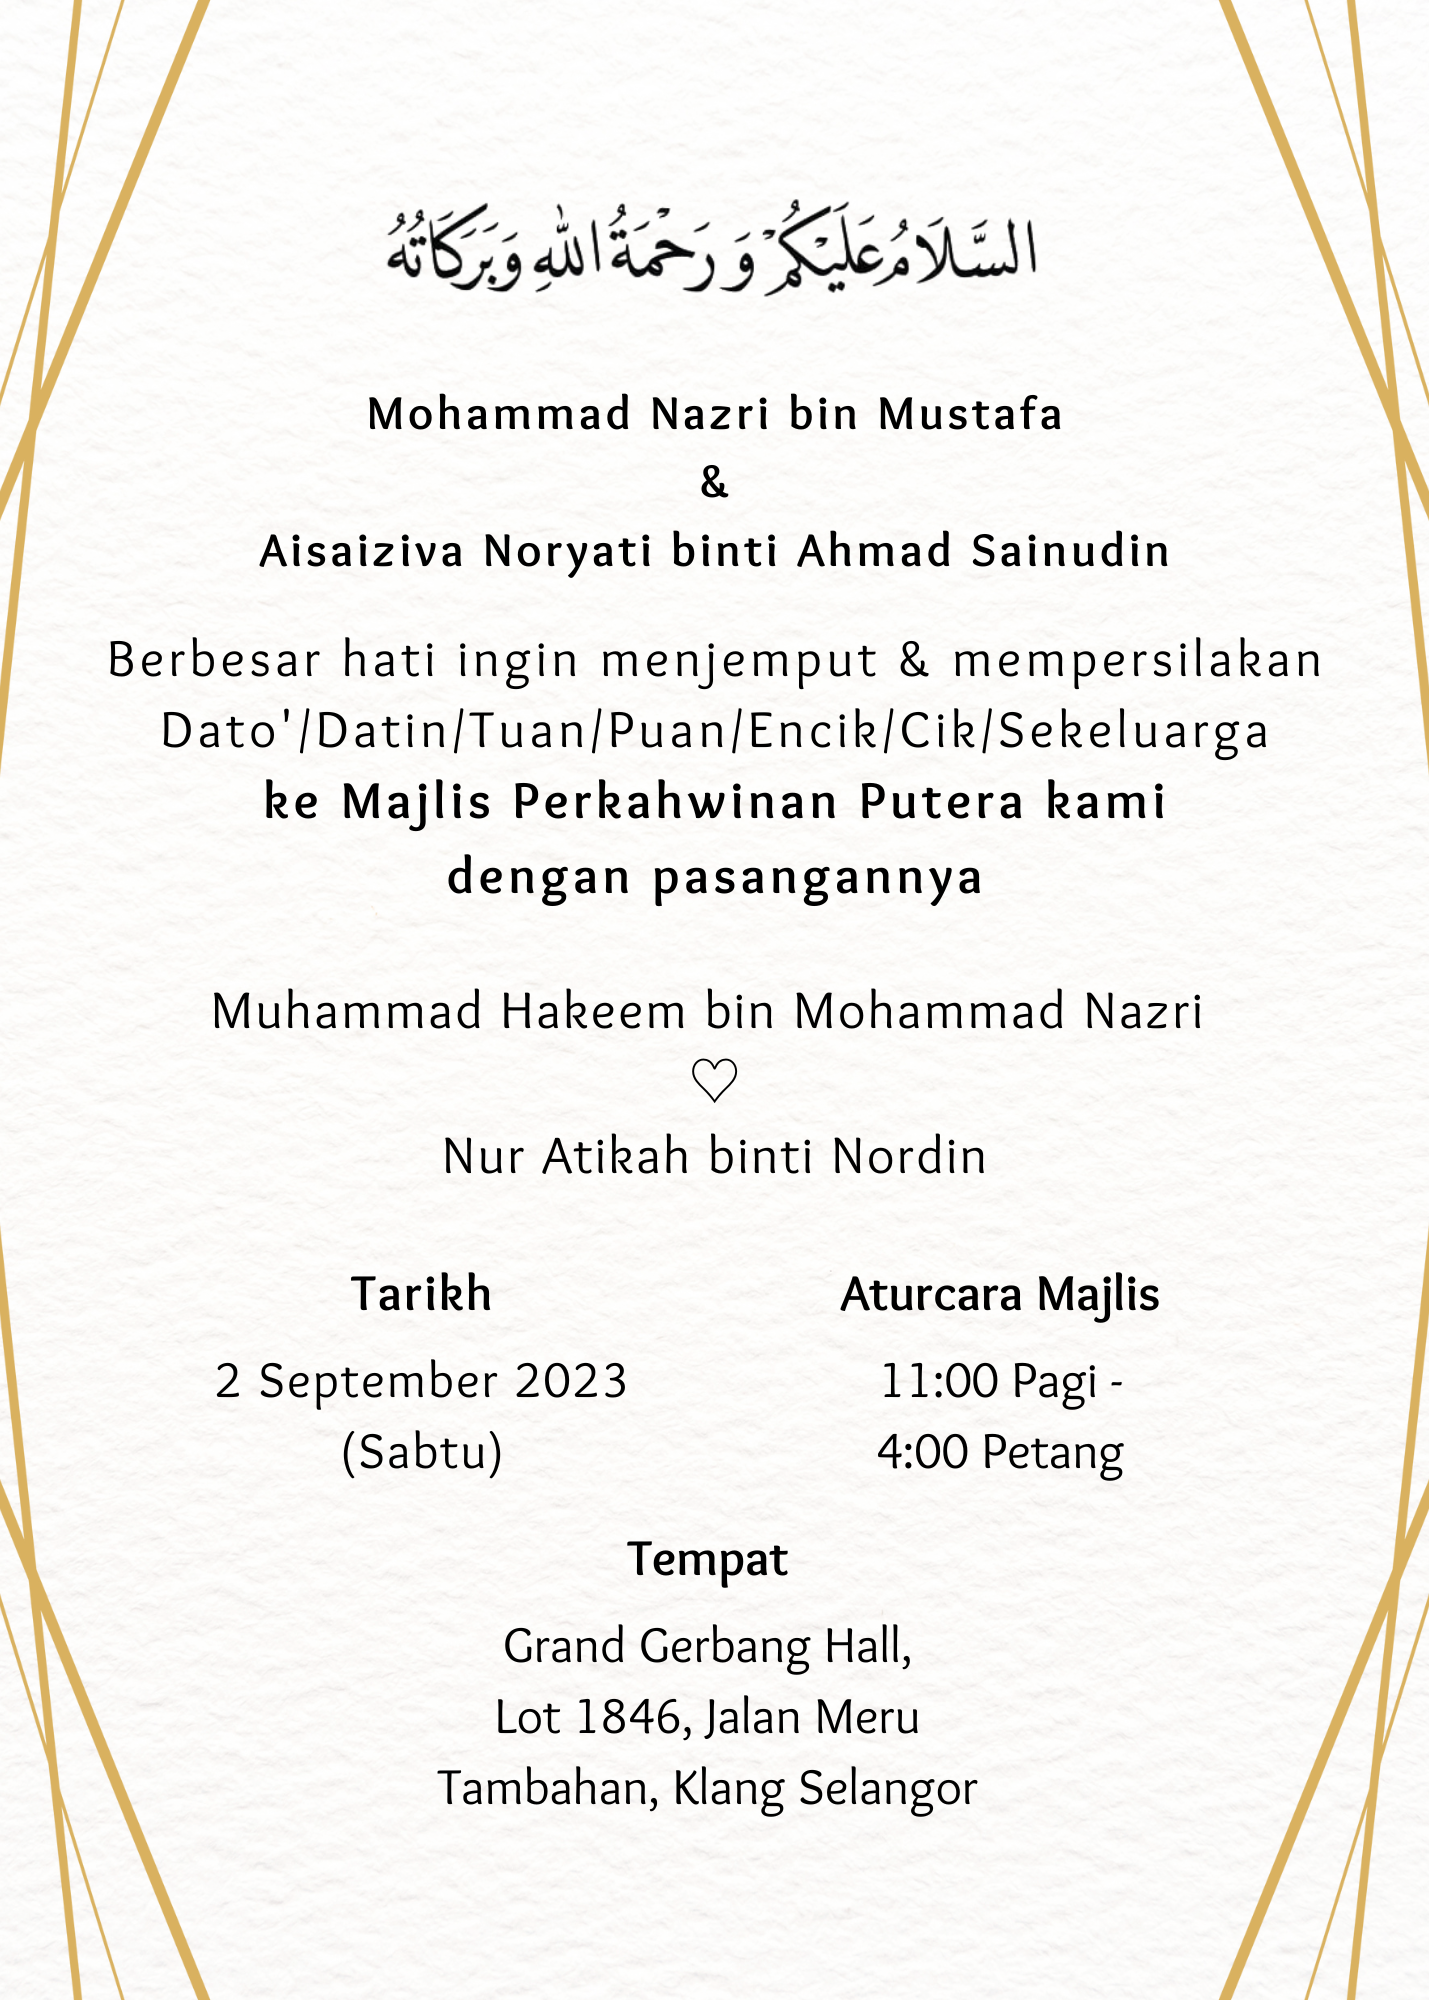
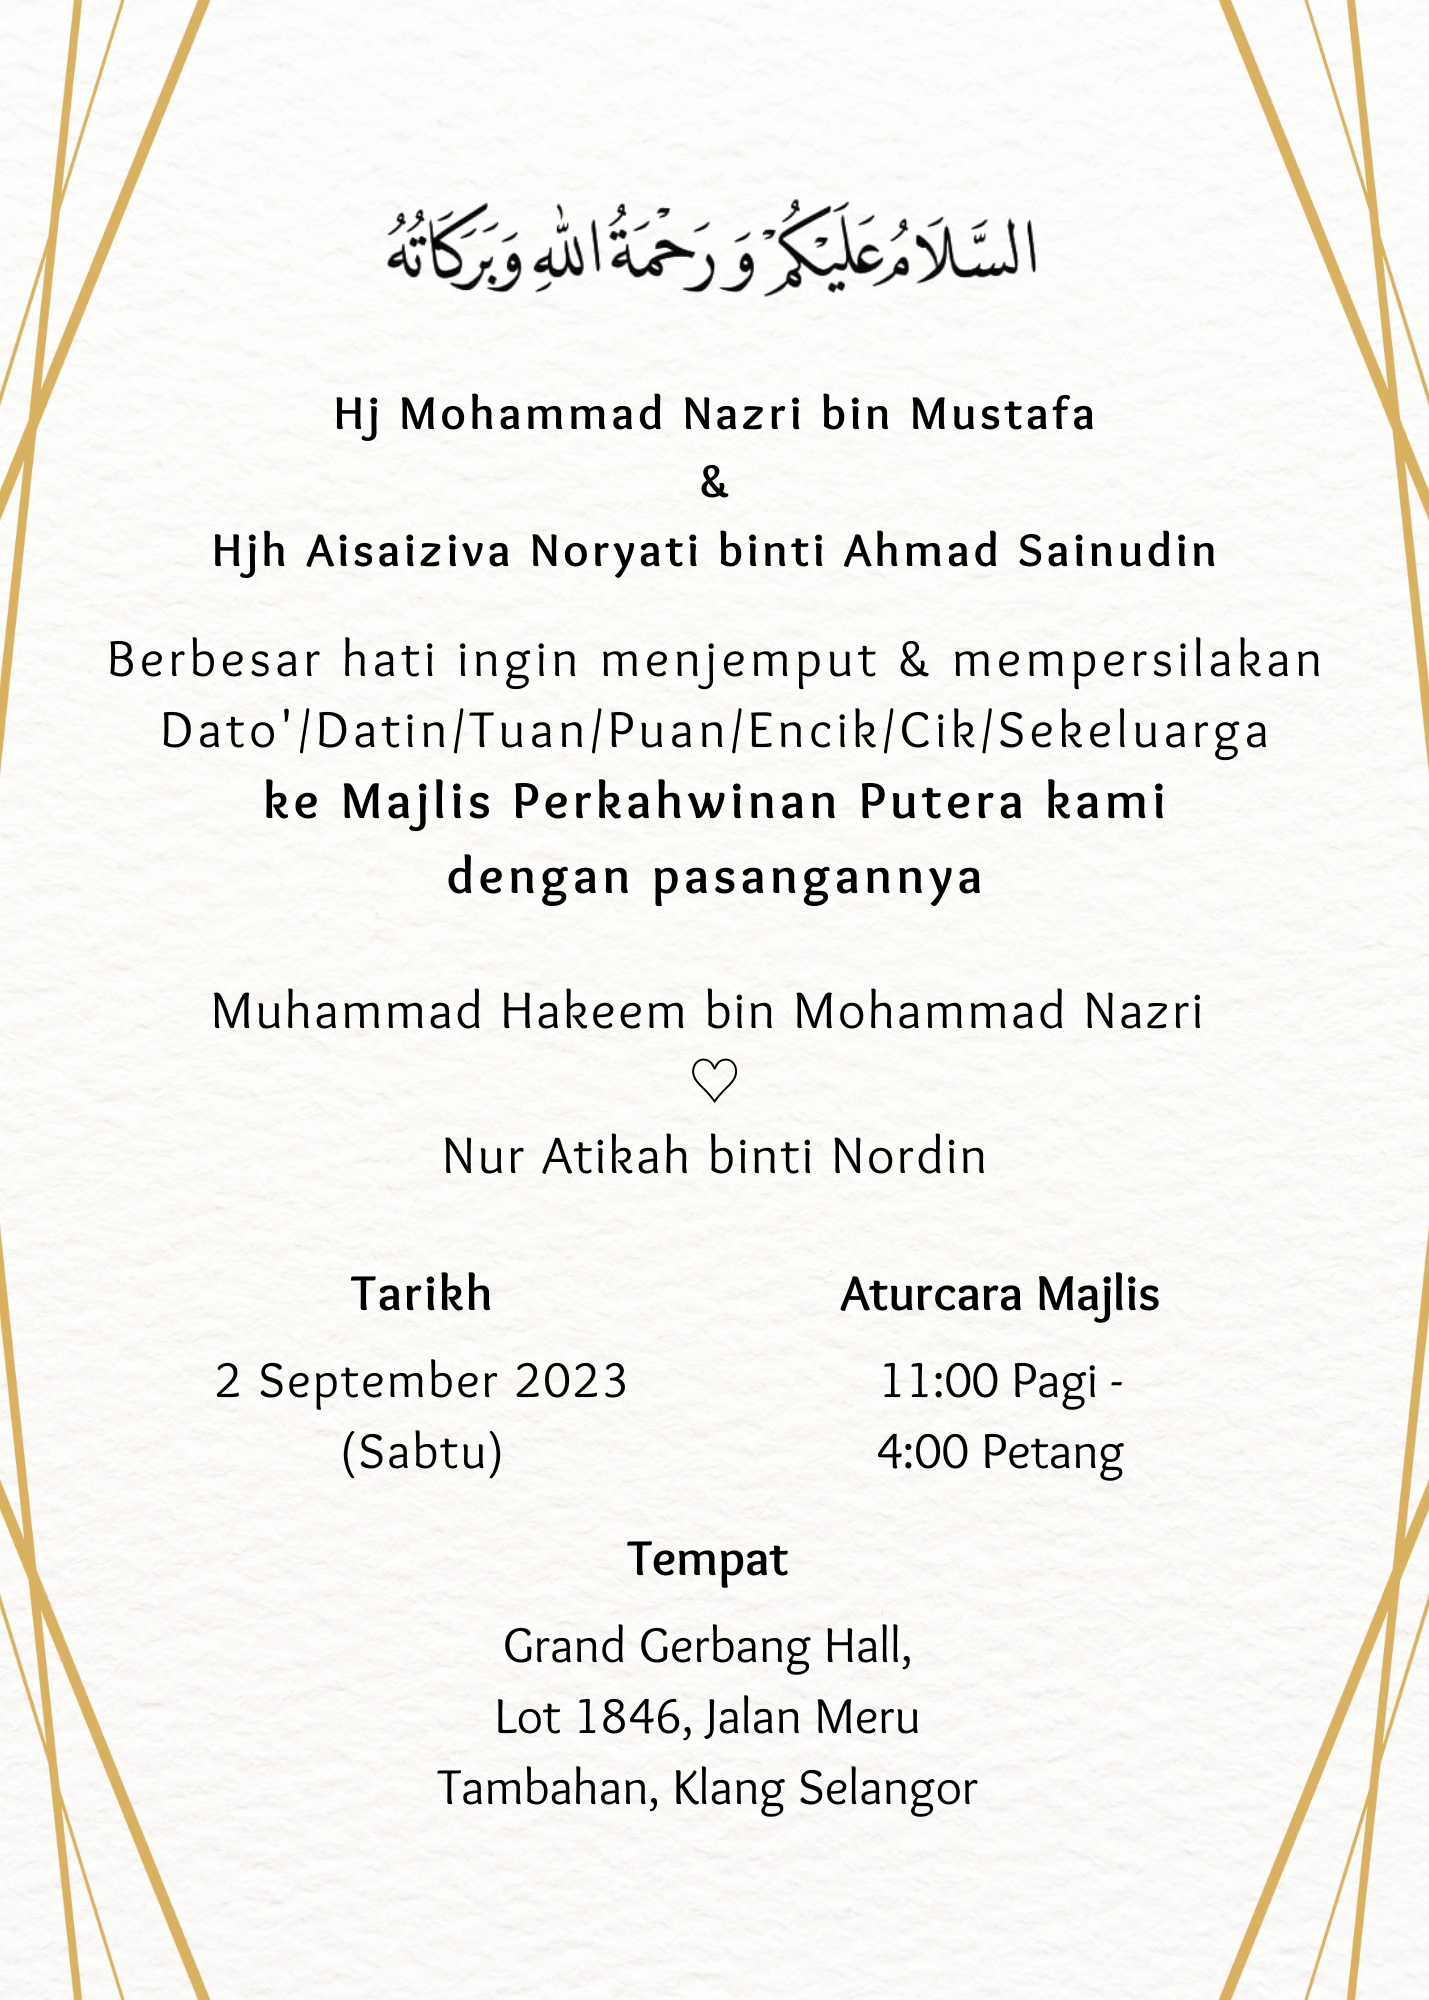
Add files via upload

Changed region(s): [[0.154, 0.248, 0.8314, 0.31], [0.2463, 0.186, 0.7698, 0.217]]

diff --git a/index.html b/index.html
@@ -68,14 +68,14 @@
         </div>
         <div class="all-tel">
           <div class="tel">
-            <p>Nazri</p>
+            <p>Hj Nazri</p>
             <div class="con-btn">
               <a href="https://wa.me/+60139981998/" target="_blank"><svg width="25px" height="25px" viewBox="0 0 21 20" fill="none" xmlns="http://www.w3.org/2000/svg"><path d="M18.66 5.21524C15.78 0.775244 9.89998 -0.544756 5.33998 2.21524C0.899979 4.97524 -0.54002 10.9752 2.33998 15.4152L2.57998 15.7752L1.61998 19.3752L5.21998 18.4152L5.57998 18.6552C7.13998 19.4952 8.81998 19.9752 10.5 19.9752C12.3 19.9752 14.1 19.4952 15.66 18.5352C20.1 15.6552 21.42 9.77524 18.66 5.21524ZM16.14 14.4552C15.66 15.1752 15.06 15.6552 14.22 15.7752C13.74 15.7752 13.14 16.0152 10.74 15.0552C8.69998 14.0952 7.01998 12.5352 5.81998 10.7352C5.09998 9.89524 4.73998 8.81524 4.61998 7.73524C4.61998 6.77524 4.97998 5.93524 5.57998 5.33524C5.81998 5.09524 6.05998 4.97524 6.29998 4.97524H6.89998C7.13998 4.97524 7.37998 4.97524 7.49998 5.45524C7.73998 6.05524 8.33998 7.49524 8.33998 7.61524C8.45998 7.73524 8.45998 7.97524 8.33998 8.09524C8.45998 8.33525 8.33998 8.57524 8.21998 8.69524C8.09998 8.81524 7.97998 9.05524 7.85998 9.17524C7.61998 9.29524 7.49998 9.53524 7.61998 9.77524C8.09998 10.4952 8.69998 11.2152 9.29998 11.8152C10.02 12.4152 10.74 12.8952 11.58 13.2552C11.82 13.3752 12.06 13.3752 12.18 13.1352C12.3 12.8952 12.9 12.2952 13.14 12.0552C13.38 11.8152 13.5 11.8152 13.74 11.9352L15.66 12.8952C15.9 13.0152 16.14 13.1352 16.26 13.2552C16.38 13.6152 16.38 14.0952 16.14 14.4552Z" fill="#1E1E1E"></path></svg></a>
               <a href="tel:+60139981998"><img src="image/icons8-phone-48.png" alt="phone" width="25" height="25"></a>
             </div>
           </div>
           <div class="tel">
-            <p>Noryati</p>
+            <p>Hjh Noryati</p>
             <div class="con-btn">
               <a href="https://wa.me/+60192770714/" target="_blank"><svg width="25px" height="25px" viewBox="0 0 21 20" fill="none" xmlns="http://www.w3.org/2000/svg"><path d="M18.66 5.21524C15.78 0.775244 9.89998 -0.544756 5.33998 2.21524C0.899979 4.97524 -0.54002 10.9752 2.33998 15.4152L2.57998 15.7752L1.61998 19.3752L5.21998 18.4152L5.57998 18.6552C7.13998 19.4952 8.81998 19.9752 10.5 19.9752C12.3 19.9752 14.1 19.4952 15.66 18.5352C20.1 15.6552 21.42 9.77524 18.66 5.21524ZM16.14 14.4552C15.66 15.1752 15.06 15.6552 14.22 15.7752C13.74 15.7752 13.14 16.0152 10.74 15.0552C8.69998 14.0952 7.01998 12.5352 5.81998 10.7352C5.09998 9.89524 4.73998 8.81524 4.61998 7.73524C4.61998 6.77524 4.97998 5.93524 5.57998 5.33524C5.81998 5.09524 6.05998 4.97524 6.29998 4.97524H6.89998C7.13998 4.97524 7.37998 4.97524 7.49998 5.45524C7.73998 6.05524 8.33998 7.49524 8.33998 7.61524C8.45998 7.73524 8.45998 7.97524 8.33998 8.09524C8.45998 8.33525 8.33998 8.57524 8.21998 8.69524C8.09998 8.81524 7.97998 9.05524 7.85998 9.17524C7.61998 9.29524 7.49998 9.53524 7.61998 9.77524C8.09998 10.4952 8.69998 11.2152 9.29998 11.8152C10.02 12.4152 10.74 12.8952 11.58 13.2552C11.82 13.3752 12.06 13.3752 12.18 13.1352C12.3 12.8952 12.9 12.2952 13.14 12.0552C13.38 11.8152 13.5 11.8152 13.74 11.9352L15.66 12.8952C15.9 13.0152 16.14 13.1352 16.26 13.2552C16.38 13.6152 16.38 14.0952 16.14 14.4552Z" fill="#1E1E1E"></path></svg></a>
               <a href="tel:+60192770714"><img src="image/icons8-phone-48.png" alt="phone" width="25" height="25"></a>
@@ -129,7 +129,7 @@
         <div class="close-btn" onclick="closeTogglePopup3()">&times;</div>
         <div class="content">
           <h2>Location</h2>
-          <p>Where its been held...</p>
+          <p>Where its been held</p>
         </div>
         <div class="loc-btn">
           <a href="https://maps.app.goo.gl/uVgEhM6ywVNgsHGx5?g_st=iw" target="_blank"><svg xmlns="http://www.w3.org/2000/svg"  viewBox="0 0 48 48" width="48px" height="48px"><path fill="#1c9957" d="M42,39V9c0-1.657-1.343-3-3-3H9C7.343,6,6,7.343,6,9v30c0,1.657,1.343,3,3,3h30C40.657,42,42,40.657,42,39z"/><path fill="#3e7bf1" d="M9,42h30c1.657,0-15-16-15-16S7.343,42,9,42z"/><path fill="#cbccc9" d="M42,39V9c0-1.657-16,15-16,15S42,40.657,42,39z"/><path fill="#efefef" d="M39,42c1.657,0,3-1.343,3-3v-0.245L26.245,23L23,26.245L38.755,42H39z"/><path fill="#ffd73d" d="M42,9c0-1.657-1.343-3-3-3h-0.245L6,38.755V39c0,1.657,1.343,3,3,3h0.245L42,9.245V9z"/><path fill="#d73f35" d="M36,2c-5.523,0-10,4.477-10,10c0,6.813,7.666,9.295,9.333,19.851C35.44,32.531,35.448,33,36,33s0.56-0.469,0.667-1.149C38.334,21.295,46,18.813,46,12C46,6.477,41.523,2,36,2z"/><path fill="#752622" d="M36 8.5A3.5 3.5 0 1 0 36 15.5A3.5 3.5 0 1 0 36 8.5Z"/><path fill="#fff" d="M14.493,12.531v2.101h2.994c-0.392,1.274-1.455,2.185-2.994,2.185c-1.833,0-3.318-1.485-3.318-3.318s1.486-3.318,3.318-3.318c0.824,0,1.576,0.302,2.156,0.799l1.548-1.547C17.22,8.543,15.92,8,14.493,8c-3.038,0-5.501,2.463-5.501,5.5s2.463,5.5,5.501,5.5c4.81,0,5.637-4.317,5.184-6.461L14.493,12.531z"/></svg>Google Map</a>
